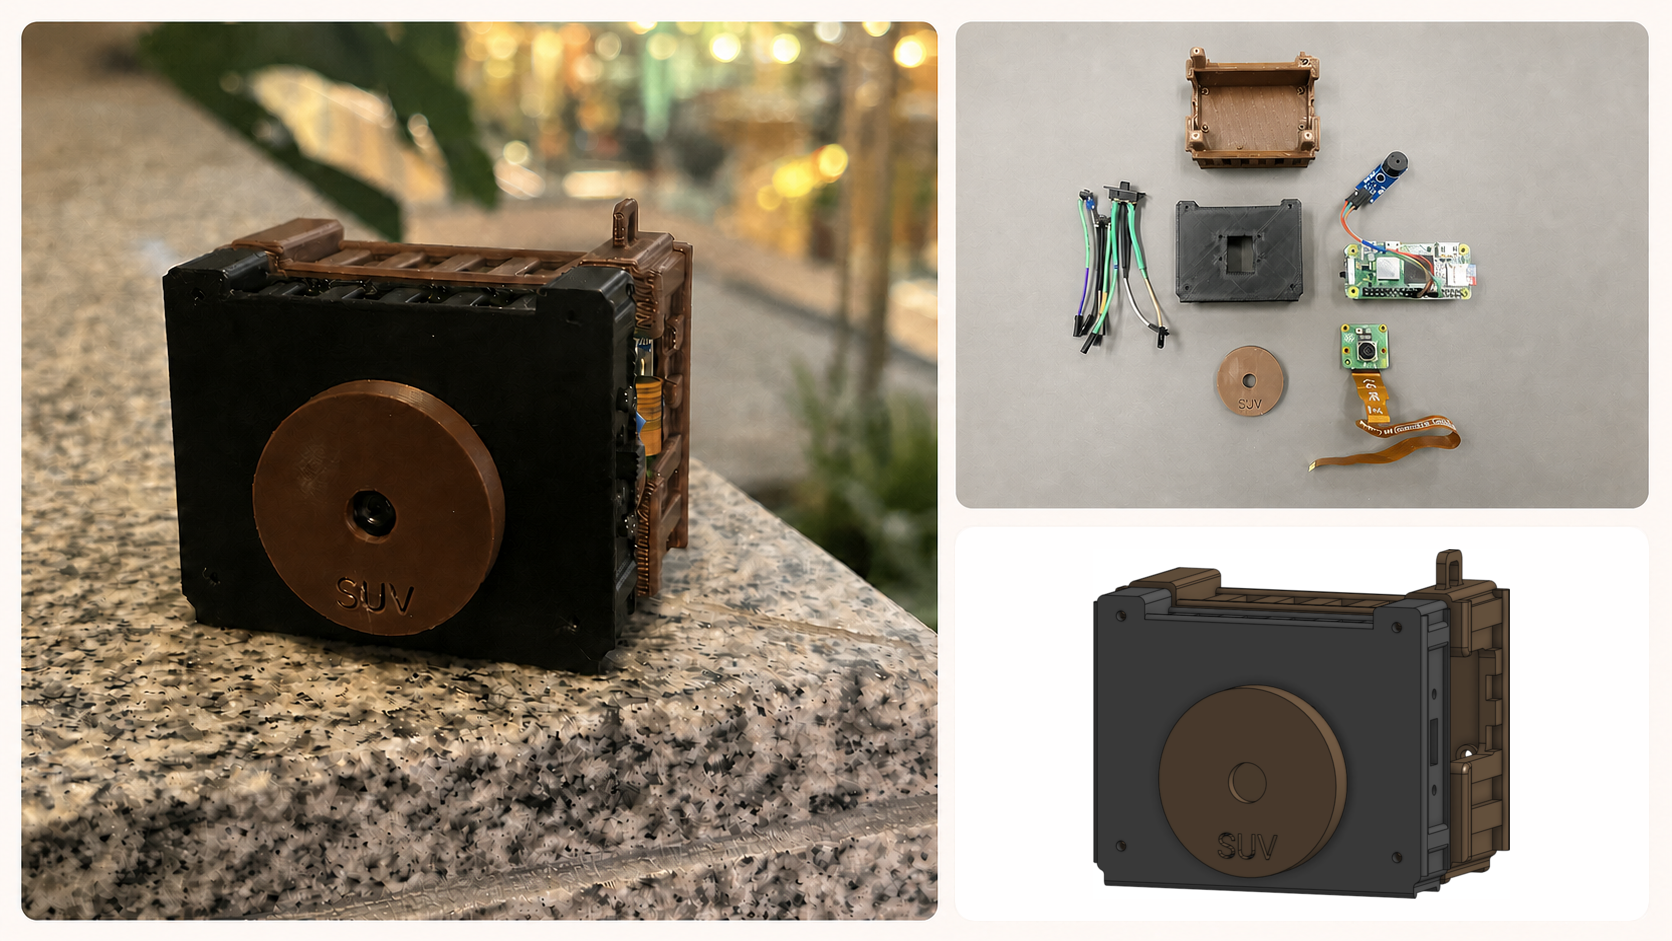
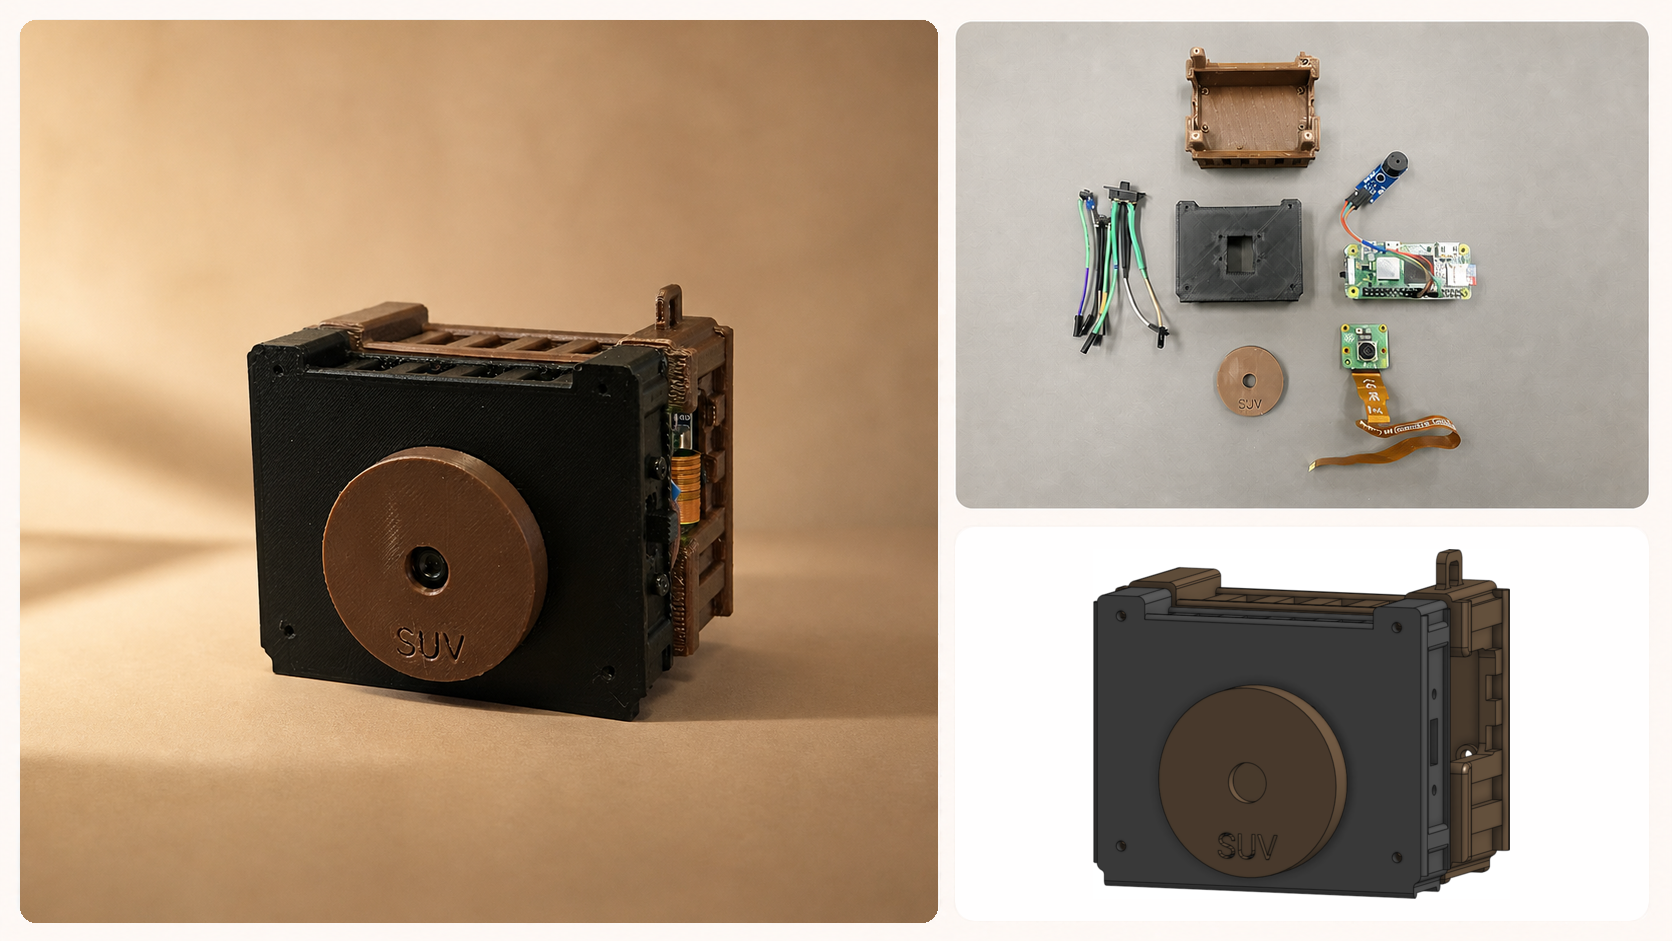
Use warm image in README collage

diff --git a/README.md b/README.md
@@ -5,7 +5,7 @@ Module 3. Tiny Film pairs a physical shutter with film-inspired JPEG looks and a
 phone-friendly local gallery—without sending your photos to the cloud.
 
 <p align="center">
-  <img src="assets/v1/product-images/camera-launch-warm.png" alt="Tiny Film Camera assembled" width="920" />
+  <img src="assets/guides/readme-showcase.png" alt="Tiny Film Camera assembled, its components, and the v1 CAD design" width="920" />
 </p>
 <p align="center">
   <sub>
